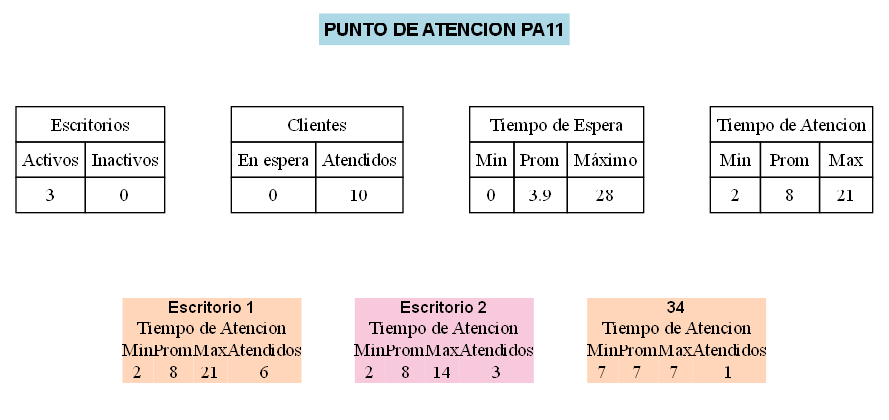
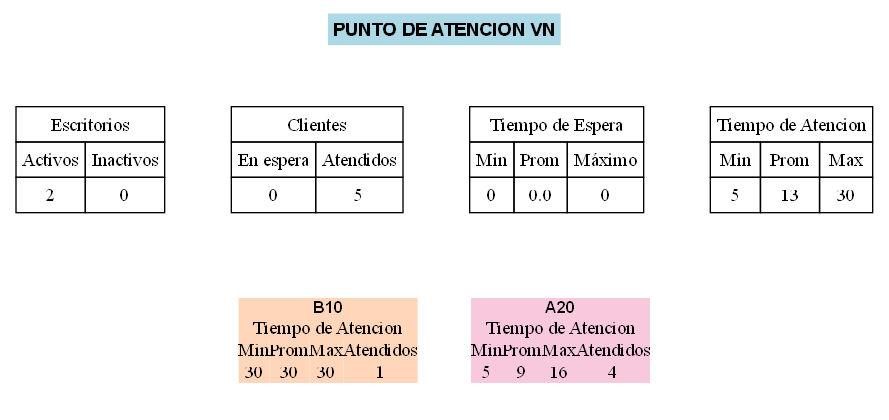
[ADD]

diff --git a/SOLUCIONES S.A/procesador_xml.py b/SOLUCIONES S.A/procesador_xml.py
@@ -84,7 +84,6 @@ class ProcesadorXML:
                 id_empresa = config_elem.get('idEmpresa')
                 id_punto = config_elem.get('idPunto')
                 
-                # Obtiene la empresa y punto de atención
                 empresa = self.sistema.obtener_empresa(id_empresa)
                 if empresa is None:
                     continue
@@ -93,45 +92,42 @@ class ProcesadorXML:
                 if punto is None:
                     continue
                 
-                # Activa los escritorios iniciales
+                # Activar escritorios
                 escritorios_elem = config_elem.find('escritoriosActivos')
                 if escritorios_elem is not None:
                     for escritorio_elem in escritorios_elem.findall('escritorio'):
                         id_escritorio = escritorio_elem.get('idEscritorio')
                         punto.activar_escritorio(id_escritorio)
                 
+                # Cargar clientes
                 clientes_elem = config_elem.find('listadoClientes')
                 if clientes_elem is not None:
                     for cliente_elem in clientes_elem.findall('cliente'):
                         dpi = cliente_elem.get('dpi')
                         nombre = cliente_elem.find('nombre').text.strip()
+                        prioridad = cliente_elem.get('prioridad', 'no')  # <- Nuevo
                         
-                        # Crea un cliente
-                        cliente = Cliente(dpi, nombre)
+                        cliente = Cliente(dpi, nombre, prioridad)
                         
-                        # Agrega transacciones al cliente
                         transacciones_elem = cliente_elem.find('listadoTransacciones')
                         if transacciones_elem is not None:
                             for trans_elem in transacciones_elem.findall('transaccion'):
                                 id_transaccion = trans_elem.get('idTransaccion')
                                 cantidad = int(trans_elem.get('cantidad', 1))
                                 
-                                # otiene transacción de la empresa
                                 transaccion = empresa.obtener_transaccion(id_transaccion)
                                 if transaccion:
                                     cliente.agregar_transaccion(transaccion, cantidad)
                         
-                        # Encola cliente en el punto de atención
                         punto.encolar_cliente(cliente)
                 
                 configuraciones_cargadas += 1
             
-            # Asigna clientes iniciales a escritorios disponibles
             for empresa in self.sistema.empresas.valores():
                 for punto in empresa.puntos_atencion:
                     punto.asignar_clientes()
             
             return True, f"Configuración inicial cargada correctamente. Se procesaron {configuraciones_cargadas} configuraciones."
-        
+
         except Exception as e:
             return False, f"Error al cargar la configuración inicial: {str(e)}"

diff --git a/SOLUCIONES S.A/modelo/modelo_datos.py b/SOLUCIONES S.A/modelo/modelo_datos.py
@@ -2,7 +2,7 @@ import sys
 import os
 sys.path.append(os.path.dirname(os.path.dirname(os.path.abspath(__file__))))
 
-from estructuras import ListaEnlazada, Cola, TablaHash, Pila
+from estructuras import ListaEnlazada, Cola, TablaHash, Pila, Nodo
 
 class Transaccion:
     def __init__(self, id_transaccion, nombre, tiempo_atencion):
@@ -298,8 +298,19 @@ class PuntoAtencion:
         return False
     
     def encolar_cliente(self, cliente):
-        self.cola_clientes.encolar(cliente)
-        return len(self.cola_clientes) 
+        if cliente.prioridad:
+            # Insertar al inicio de la cola (prioridad alta)
+            nueva_lista = ListaEnlazada()
+            nuevo_nodo = Nodo(cliente)
+            nuevo_nodo.siguiente = self.cola_clientes.lista.cabeza
+            self.cola_clientes.lista.cabeza = nuevo_nodo
+            if self.cola_clientes.lista.cola is None:
+                self.cola_clientes.lista.cola = nuevo_nodo
+            self.cola_clientes.lista.tamaño += 1
+        else:
+            self.cola_clientes.encolar(cliente)
+        return len(self.cola_clientes)
+
     
     def asignar_clientes(self, tiempo_actual=0):
         """
@@ -470,12 +481,13 @@ class Empresa:
 
 # Clase que representa un cliente
 class Cliente:
-    def __init__(self, dpi, nombre):
+    def __init__(self, dpi, nombre, prioridad="no"):
         self.dpi = dpi
         self.nombre = nombre
-        self.transacciones = ListaEnlazada() 
-        self.hora_llegada = 0 
-    
+        self.transacciones = ListaEnlazada()
+        self.hora_llegada = 0
+        self.prioridad = prioridad.lower() == "si"  # Se guarda como booleano
+
     def agregar_transaccion(self, transaccion, cantidad=1):
         self.transacciones.insertar((transaccion, cantidad))
     
@@ -489,4 +501,5 @@ class Cliente:
         return tiempo_total
     
     def __str__(self):
-        return f"Cliente[{self.dpi}]: {self.nombre}"
+        estado = "PRIORITARIO" if self.prioridad else "Normal"
+        return f"Cliente[{self.dpi}]: {self.nombre} ({estado})"
